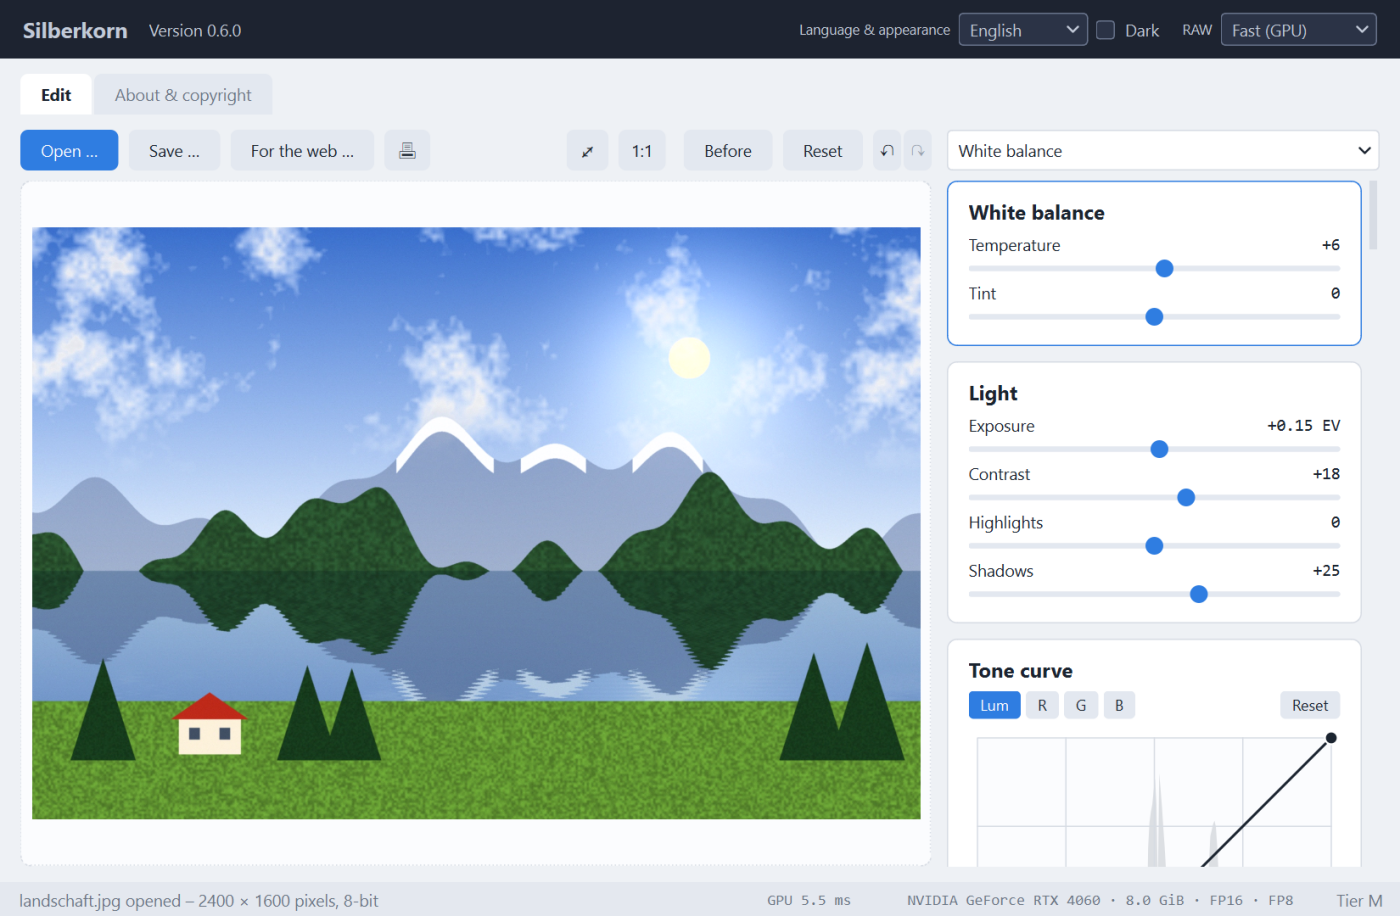
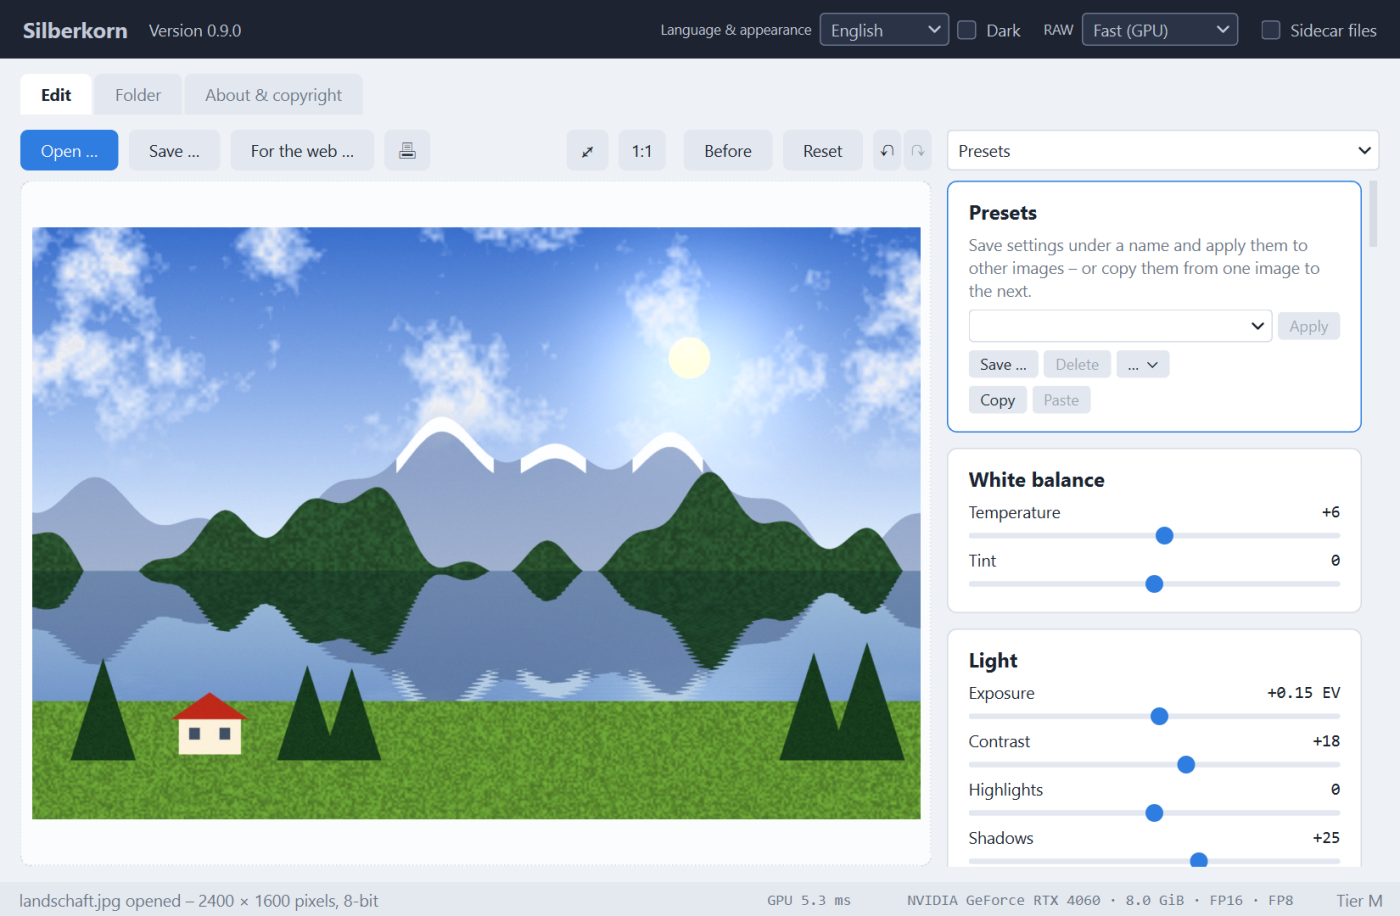
Bildschirmfoto der Ordneransicht
Neue Aufnahme ordneransicht.png (de/en) in der Tabelle neben "Fotos
trennen": ein Beispielordner mit Unterordnern und einer gerechneten
Serie, ein Bild mit Begleitdatei, zwei Bilder fuer den Stapel gewaehlt.
Statt des temporaeren Pfads steht D:\Fotos\Scans im Bild.

bildschirmfotos.py lenkt jetzt auch den Vorschau-Cache und die
Voreinstellungen in den temporaeren Ordner um - vorher erschien eine
eigene Voreinstellung im Bild des Hauptfensters. Die uebrigen Aufnahmen
sind neu: Version 0.9.0, Reiter "Ordner", Schalter "Begleitdateien" und
Karte "Voreinstellungen".

diff --git a/werkzeuge/bildschirmfotos.py b/werkzeuge/bildschirmfotos.py
@@ -2,10 +2,13 @@
 Bildschirmfotos fuer die READMEs erzeugen - nur das Programmfenster
 
 Die Motive rechnet das Skript selbst: eine Landschaft, daraus ein Farbnegativ
-mit Infrarotkanal und Staub, und eine Scannerplatte mit drei Abzuegen. So
-zeigen die Bilder keine fremden oder privaten Fotos. Die Einstellungsdatei
-wird weder gelesen noch geschrieben - Namen aus den Vorgaben fuer Urheber und
-Copyright koennen also nicht ins Bild geraten.
+mit Infrarotkanal und Staub, eine Scannerplatte mit drei Abzuegen und fuer die
+Ordneransicht weitere Landschaften. So zeigen die Bilder keine fremden oder
+privaten Fotos. Statt des temporaeren Ordners steht ein Beispielordner im Bild,
+der Vorschau-Cache bleibt aus. Die Einstellungsdatei
+wird weder gelesen noch geschrieben und die eigenen Voreinstellungen werden
+nicht gezeigt - Namen aus den Vorgaben fuer Urheber und Copyright oder von
+Voreinstellungen koennen also nicht ins Bild geraten.
 
 Aufruf (aus dem Projektordner, mit Grafikkarte):
 
@@ -24,6 +27,7 @@ import math
 import os
 import sys
 import tempfile
+import time
 
 import numpy as np
 from PIL import Image
@@ -180,6 +184,30 @@ def scannerplatte():
     return (np.clip(platte, 0, 1) * 255 + 0.5).astype(np.uint8)
 
 
+# Fuer die Ordneransicht: (Name, Zufallszahl, Stand der Sonne)
+SERIE = [("Bergsee-01.jpg", 3, (0.2, 0.25)), ("Bergsee-02.jpg", 4, (0.35, 0.2)),
+         ("Bergsee-03.jpg", 5, (0.55, 0.3)), ("Bergsee-04.jpg", 6, (0.8, 0.18)),
+         ("Bergsee-05.jpg", 7, (0.65, 0.4)), ("Bergsee-06.jpg", 8, (0.45, 0.15))]
+UNTERORDNER = ("Abzüge", "Negative")
+
+
+def serie_schreiben(ordner: str) -> str:
+    """Ein Ordner mit Unterordnern und einer kleinen Serie - die Mitte der Ordneransicht."""
+    import shutil
+    serie = os.path.join(ordner, "Scans")
+    for name in UNTERORDNER:
+        os.makedirs(os.path.join(serie, name), exist_ok=True)
+    for name, seed, sonne in SERIE:
+        bild = landschaft(600, 900, seed=seed, sonne=sonne)
+        Image.fromarray((bild * 255 + 0.5).astype(np.uint8)).save(os.path.join(serie, name),
+                                                                  quality=90)
+    shutil.copyfile(os.path.join(ordner, "negativ-rgbi.tif"),
+                    os.path.join(serie, "Negativ-01.tif"))
+    shutil.copyfile(os.path.join(ordner, "scannerplatte.jpg"),
+                    os.path.join(serie, "Scannerplatte.jpg"))
+    return serie
+
+
 def motive_schreiben(ordner: str) -> dict[str, str]:
     import tifffile
     pfade = {"landschaft": os.path.join(ordner, "landschaft.jpg"),
@@ -190,6 +218,7 @@ def motive_schreiben(ordner: str) -> dict[str, str]:
     tifffile.imwrite(pfade["negativ"], negativ_mit_staub(bild), photometric="rgb",
                      extrasamples=[0], compression="zlib")
     Image.fromarray(scannerplatte()).save(pfade["platte"], quality=95)
+    pfade["serie"] = serie_schreiben(ordner)
     return pfade
 
 
@@ -214,7 +243,7 @@ def aufnehmen(sprache: str, motive: dict[str, str]):
     from PySide6.QtGui import QColor, QPainter
     from PySide6.QtWidgets import QApplication, QDialog
 
-    from silberkorn import farben, gpu_pruefung, trennen_dialog
+    from silberkorn import VERSION, begleitdatei, farben, gpu_pruefung, trennen_dialog
     from silberkorn.hauptfenster import Hauptfenster
     from silberkorn.uebersetzung import _
 
@@ -295,20 +324,66 @@ def aufnehmen(sprache: str, motive: dict[str, str]):
 
     trennen_dialog.TrennenDialog.exec = zeigen
     seite.fotos_trennen()
+
+    # 5. Ordneransicht: ein Bild der Serie mit Begleitdatei (schwarzweiss, mit Punkt),
+    # zwei Bilder gewaehlt fuer den Stapel
+    bearbeitet = os.path.join(motive["serie"], SERIE[2][0])
+    if not os.path.exists(begleitdatei.pfad_fuer(bearbeitet)):
+        seite.oeffnen(bearbeitet)
+        for name, wert in (("saettigung", -100.0), ("kontrast", 30.0), ("vignette", -35.0)):
+            seite.zeilen[name].setzen(wert)
+            seite.wert_geaendert(name, wert)
+        sitzung = seite.sitzung
+        begleitdatei.schreiben(bearbeitet, sitzung.begleit_inhalt(sitzung.begleit_vorschau()),
+                               begleitdatei.fingerabdruck(bearbeitet), VERSION)
     seite.schliessen()
+    ansicht = fenster.ordner
+    fenster.reiter.setCurrentWidget(ansicht)
+    # Die Meldung nennt nur den letzten Teil des Pfads - "Scans" wie im Beispielordner
+    ansicht.ordner_zeigen(motive["serie"])
+    ansicht.ort.setText(BEISPIEL_ORDNER)
+    fenster.begleit_box.blockSignals(True)     # nur anzeigen, nichts sichern
+    fenster.begleit_box.setChecked(True)
+    fenster.begleit_box.blockSignals(False)
+    modell = ansicht.modell
+    from silberkorn.ordner_seite import PFAD_ROLLE, ZUSTAND_ROLLE
+    for _i in range(600):                      # bis alle Vorschaubilder da sind, hoechstens 30 s
+        app.processEvents()
+        ansicht.liste.viewport().update()
+        zustaende = [modell.index(i).data(ZUSTAND_ROLLE) for i in range(modell.rowCount())]
+        if "laedt" not in zustaende:
+            break
+        time.sleep(0.05)
+    auswahl = ansicht.liste.selectionModel()
+    for name in (SERIE[0][0], SERIE[1][0]):
+        nummer = next(i for i in range(modell.rowCount())
+                      if os.path.basename(modell.index(i).data(PFAD_ROLLE) or "") == name)
+        auswahl.select(modell.index(nummer), auswahl.SelectionFlag.Select)
+    for _i in range(5):
+        app.processEvents()
+    _speichern(fenster.grab(), os.path.join(ordner, "ordneransicht.png"))
+    fenster.begleit_box.blockSignals(True)
+    fenster.begleit_box.setChecked(False)
+    fenster.begleit_box.blockSignals(False)
+    fenster.reiter.setCurrentWidget(seite)
     fenster.close()
 
 
 def main():
     from PySide6.QtWidgets import QApplication
 
-    from silberkorn import einstellungen, farben
+    from silberkorn import einstellungen, farben, voreinstellungen, vorschau_cache
     # Ohne die Einstellungsdatei des Anwenders: nichts lesen, nichts schreiben
     einstellungen.load_config = lambda: {}
     einstellungen.save_config = lambda _daten: True
     app = QApplication.instance() or QApplication([])
     app.setStyleSheet(farben.stylesheet())
     with tempfile.TemporaryDirectory() as ordner:
+        # Ohne gewaehlte Groesse oeffnet die Ordneransicht keinen Cache - zur Sicherheit
+        # zeigt auch der Standardort in den temporaeren Ordner, nie in den des Anwenders
+        vorschau_cache.standard_ordner = lambda: os.path.join(ordner, "cache")
+        # Auch die eigenen Voreinstellungen des Anwenders bleiben aussen vor
+        voreinstellungen.ordner = lambda: os.path.join(ordner, "voreinstellungen")
         motive = motive_schreiben(ordner)
         for sprache in ("de", "en"):
             aufnehmen(sprache, motive)

diff --git a/README.md b/README.md
@@ -291,8 +291,8 @@ RTX 5000 (Blackwell) auch FP4. Die Werte stehen auf dem Reiter „Info & Copyrig
 | Kartenauswahl | Scan & Film |
 |---|---|
 | ![Die aufgeklappte Kartenauswahl über den Karten](docs/bilder/de/kartenwahl.png) | ![Ein umgewandeltes Farbnegativ, die über Infrarot gefundenen Staubstellen sind blau markiert](docs/bilder/de/scan-und-film.png) |
-| **Fotos trennen** | |
-| ![Dialog „Fotos trennen“ mit drei gefundenen Abzügen einer Scannerplatte](docs/bilder/de/fotos-trennen.png) | |
+| **Fotos trennen** | **Ordneransicht** |
+| ![Dialog „Fotos trennen“ mit drei gefundenen Abzügen einer Scannerplatte](docs/bilder/de/fotos-trennen.png) | ![Reiter „Ordner“ mit Unterordnern und Bildern als Kacheln; ein Bild mit Begleitdatei zeigt seine Bearbeitung und einen blauen Punkt, zwei Bilder sind für den Stapel gewählt](docs/bilder/de/ordneransicht.png) |
 
 *Die Motive sind gerechnet, keine Fotos – erzeugt mit `werkzeuge/bildschirmfotos.py`.*
 

diff --git a/README.en.md b/README.en.md
@@ -254,8 +254,8 @@ RTX 5000 (Blackwell) also in FP4. The values are shown on the "About & copyright
 | Card picker | Scan & film |
 |---|---|
 | ![The card picker opened above the cards](docs/bilder/en/kartenwahl.png) | ![A converted colour negative, the dust found via infrared marked in blue](docs/bilder/en/scan-und-film.png) |
-| **Split photos** | |
-| ![The "Split photos" dialog with three prints found on a flatbed scan](docs/bilder/en/fotos-trennen.png) | |
+| **Split photos** | **Folder view** |
+| ![The "Split photos" dialog with three prints found on a flatbed scan](docs/bilder/en/fotos-trennen.png) | ![The "Folder" tab with subfolders and images as tiles; an image with a sidecar file shows its edit and a blue dot, two images are selected for a batch](docs/bilder/en/ordneransicht.png) |
 
 *The motifs are computed, not photographs – made with `werkzeuge/bildschirmfotos.py`.*
 
